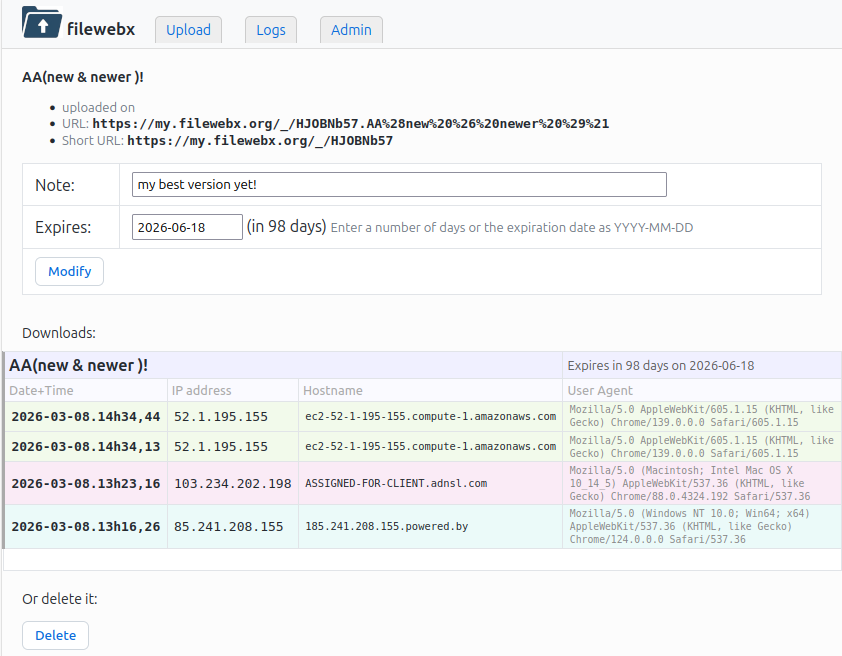
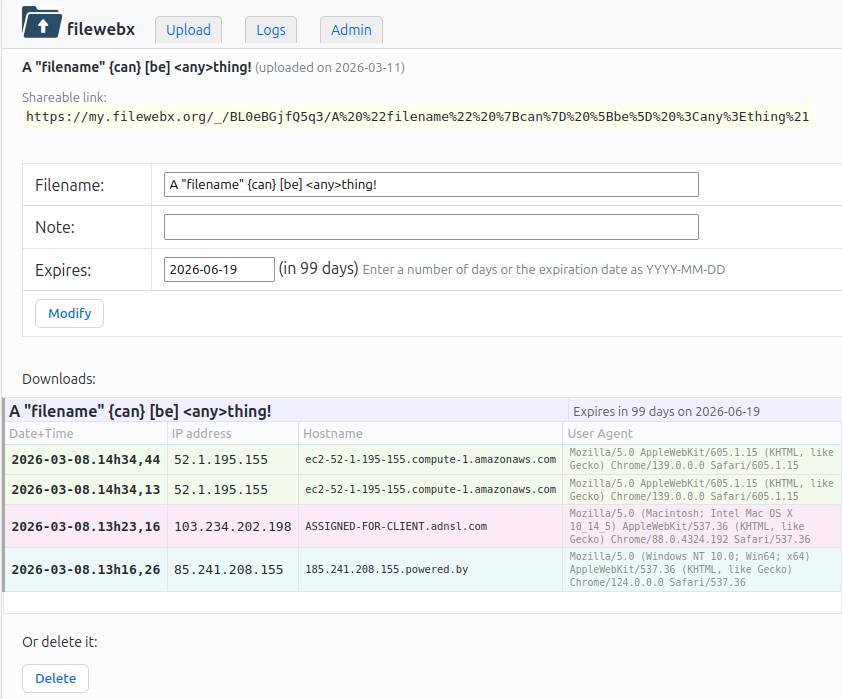
screenshots updated

diff --git a/README.md b/README.md
@@ -67,15 +67,22 @@ To update, just re-clone the repository and copy the `filewebx` and `filewebdl` 
 You can then use the script by going to the URL to the admin account provided by the install script, in our example: `https://my.filewebx.org/yJDdYNEXmB`
 If you are using it from an IP address defined in your web server config (in the examples 88.181.8.140 or 32.166.24.45), you can just go to `https://my.filewebx.org`. It will redirect also to the admin account above.
 
-- The default tab, Upload files, Uploading a file `my-sent-file.foo` will provide you with a link to give to others, in the form  `https://my.filewebx.org/_/OLw6bZrh65lj/my-sent-file.foo`. Note that a random "password" (more precisely, a token) is generated, `OLw6bZrh65lj` which is the important part, the rest being a kind of label for easier handling by humans.
+- The default tab, Upload files:
 
 ![](doc/screenshot-1.png)
 
-- Past uploaded files are shown. Clicking on one shows you the download logs, and allow you to add a note and chnage the expiration date. Files are kept 100 days by default.
+- Uploading a file `my-sent-file.foo` will provide you with a link to give to others, in the form  `https://my.filewebx.org/_/OLw6bZrh65lj/my-sent-file.foo`. Note that a random "password" (more precisely, a token) is generated, `OLw6bZrh65lj` which is the important part, the rest being a kind of label for easier handling by humans.
+
+![](doc/screenshot-1-1.png)
+
+- Past uploaded files are shown. Clicking on one shows you the download logs, and allow you to:
+  - Rename the file. The shareable link URL will change, but the old ones will still work, only some tools other than normal browsers may save the file under the old name.
+  - Add a personal note (a free comment, not sent via the link)
+  - Change the expiration date. Files are kept 100 days by default. You can specify it either as a number of days from now, or the date in `YYYY-MM-DD` format.
 
 ![](doc/screenshot-2.png)
 
-- The Logs tab enable to see all dpoownload logs of all files under the current account
+- The Logs tab enable to see all download logs of all files under the current account
 
 - The Admin tab, present only for the admin account, allows to create guests accounts and lists all the active ones. A guest account will only see its own uploaded files. A guest account will have a URL of the form  `https://my.filewebx.org/guestpassword~guestid`, with links to download its files in the  form `https://my.filewebx.org/_/~guestid/filepassword/my-sent-file.foo`
 For convenience, try to keep the guest ids as short as possible. Only alphanumeric and dot, hyphen and underscore characters are accepted.
